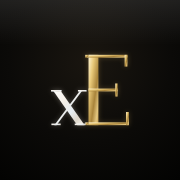
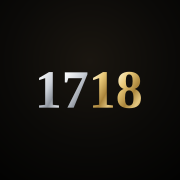
1718 (20261124-6): icono nuevo con 1718
Dueño, 24 nov 22:02: el icono, «1718». «17» en plata y «18» en oro sobre el mismo fondo oscuro del icono xE, en vectores
(cifras de Liberation Serif Bold convertidas en trazos, SIL OFL) para que no dependa de ninguna tipografía instalada.
Todos los tamaños (32, 180, 192 y 512, también los de la pantalla de inicio de Android) y ?v=3 para que los navegadores
y los móviles cojan el nuevo; también en las páginas legales.

Claude-Session: https://claude.ai/code/session_01PXRz1wGyS4XZkT2X4UdYTq

diff --git a/index.html b/index.html
@@ -24,12 +24,12 @@
 <link rel="canonical" href="https://house1718.com/">
 <meta http-equiv="Content-Security-Policy" content="default-src 'none'; script-src 'self'; style-src 'self'; img-src 'self' data: blob:; font-src 'self'; manifest-src 'self'; connect-src 'self' blob: wss://motor.guardianagroup.com wss://motor-am.guardianagroup.com wss://ru.guardianagroup.com https://motor.guardianagroup.com https://motor-am.guardianagroup.com https://ru.guardianagroup.com ws://127.0.0.1:8794 http://127.0.0.1:8794; media-src 'self' blob:; worker-src 'self'; base-uri 'none'; form-action 'none'; object-src 'none'">
 <link rel="icon" href="img/icono.svg?v=2" type="image/svg+xml">
-<link rel="icon" href="img/app/icono-32.png?v=2" sizes="32x32" type="image/png">
-<link rel="apple-touch-icon" href="img/app/icono-180.png?v=2">
+<link rel="icon" href="img/app/icono-32.png?v=3" sizes="32x32" type="image/png">
+<link rel="apple-touch-icon" href="img/app/icono-180.png?v=3">
 <link rel="manifest" href="manifest.webmanifest">
 <link rel="preload" href="fuentes/Inter-400.woff" as="font" type="font/woff" crossorigin>
-<link rel="stylesheet" href="css/elixir.css?v=20261124-5" integrity="sha384-s/RHpI2R1wo1YOEbgq97aadFXaD4bZf//V8qCCXn8WdK2oIwSK+IW5tu1IhnymTc">
-<script src="js/idioma-inicio.js?v=20261124-5" integrity="sha384-MmkfKIBZvm1JcWI8nQr+H35xHebZTFtRt3NnwqRjS9BszpgOids132FMhnMj1WTW"></script>
+<link rel="stylesheet" href="css/elixir.css?v=20261124-6" integrity="sha384-s/RHpI2R1wo1YOEbgq97aadFXaD4bZf//V8qCCXn8WdK2oIwSK+IW5tu1IhnymTc">
+<script src="js/idioma-inicio.js?v=20261124-6" integrity="sha384-MmkfKIBZvm1JcWI8nQr+H35xHebZTFtRt3NnwqRjS9BszpgOids132FMhnMj1WTW"></script>
 </head>
 <body>
 <canvas id="lienzo3d" class="lienzo3d" aria-hidden="true"></canvas>
@@ -335,20 +335,20 @@
 </div>
 </div>
 
-<script src="js/luz.js?v=20261124-5" integrity="sha384-HT0kXQCWol237JpMLEIJRRdC/tLgwstZjp5RucjoUSLuyge82BcIzJwOvb14SjaS" defer></script>
-<script src="js/idioma.js?v=20261124-5" integrity="sha384-9eaVbFl0SHa/IF62lXuP+ixQvShmSJl68pO/dRJrVlIOEju0fAVx5XE6UVSTqeHG"></script>
-<script src="js/pq-cnsa.js?v=20261124-5" integrity="sha384-0EQgDFltnWj4a6p0SwC15ZjlPDSdgANgg9gIIr4jipegvGSQgJDczXiamHOIFadB"></script>
-<script src="js/palabras.js?v=20261124-5" integrity="sha384-y1qUn0IICuhA2njevuW+3yYN79okYFYmnfrxee4PtRHHJPA2MjPH26QJIOC9N1oa"></script>
-<script src="js/cripto.js?v=20261124-5" integrity="sha384-aXBEv8TDOFRwOMpwUEdSgLnhrsID6YsgibrWRWK1Zkq3kEAInp2g5xxHAnsLZAbP"></script>
-<script src="js/rele.js?v=20261124-5" integrity="sha384-l8yZ0bUAXBIIJPrChxhv+NiiCAXhhj034h5N4PHHCl0Q1QEEjKEwgqT70vuC63wo"></script>
-<script src="js/qr.js?v=20261124-5" integrity="sha384-A2A2rMBrjosttAapw9d7JyQV/HS7/XjbM4FTDr6UJjcOvRcsIro1hMduojij6ZR9"></script>
-<script src="js/motor.js?v=20261124-5" integrity="sha384-PQlKC0qPTuXrPAJxdrNlsWWyfQU4C+nn436GSsCqKH7eSzxEeAkcHDMLATcN1NqQ"></script>
-<script type="module" src="js/sala3d.js?v=20261124-5" integrity="sha384-FFRIsDc5mdT+s83fPJmXi2xkkassPwXlApKpTMIH6jjozETGdEDlWeDrTS0ZHeWF"></script>
-<script src="js/holo.js?v=20261124-5" integrity="sha384-XHxgaA5dygVoX9z10QvIGr7enP20X8VyDl4i9CsCGp6idbBzsEQijHjRG2TLg3dj"></script>
-<script src="js/puerta.js?v=20261124-5" integrity="sha384-Y//8E1lDGQ2zpGWkGN0gk0A/QR3mPB1FLzH/xWngI5O6L660W+75kxAuU9nX3Aio"></script>
-<script src="js/escenas.js?v=20261124-5" integrity="sha384-bb7WbHlx5FzyusbpWOJJhzs6DtZQokDJ47fy15w5xbkEh2sLE+qnq39X1mUhFeGd"></script>
-<script src="js/sala.js?v=20261124-5" integrity="sha384-GPTitOaXYd9AcAck9Jag13j835TAM5NSKV6iTQxgis96ZnxW9+gA2nFLxWd/H5TS"></script>
-<script src="js/grupo.js?v=20261124-5" integrity="sha384-uTSJUwxUMPcea64a7FfioUiNQnfDA9EVRV82IKP5znTYGI5p2/yXiQ88cClGb1k7"></script>
+<script src="js/luz.js?v=20261124-6" integrity="sha384-HT0kXQCWol237JpMLEIJRRdC/tLgwstZjp5RucjoUSLuyge82BcIzJwOvb14SjaS" defer></script>
+<script src="js/idioma.js?v=20261124-6" integrity="sha384-9eaVbFl0SHa/IF62lXuP+ixQvShmSJl68pO/dRJrVlIOEju0fAVx5XE6UVSTqeHG"></script>
+<script src="js/pq-cnsa.js?v=20261124-6" integrity="sha384-0EQgDFltnWj4a6p0SwC15ZjlPDSdgANgg9gIIr4jipegvGSQgJDczXiamHOIFadB"></script>
+<script src="js/palabras.js?v=20261124-6" integrity="sha384-y1qUn0IICuhA2njevuW+3yYN79okYFYmnfrxee4PtRHHJPA2MjPH26QJIOC9N1oa"></script>
+<script src="js/cripto.js?v=20261124-6" integrity="sha384-aXBEv8TDOFRwOMpwUEdSgLnhrsID6YsgibrWRWK1Zkq3kEAInp2g5xxHAnsLZAbP"></script>
+<script src="js/rele.js?v=20261124-6" integrity="sha384-l8yZ0bUAXBIIJPrChxhv+NiiCAXhhj034h5N4PHHCl0Q1QEEjKEwgqT70vuC63wo"></script>
+<script src="js/qr.js?v=20261124-6" integrity="sha384-A2A2rMBrjosttAapw9d7JyQV/HS7/XjbM4FTDr6UJjcOvRcsIro1hMduojij6ZR9"></script>
+<script src="js/motor.js?v=20261124-6" integrity="sha384-PQlKC0qPTuXrPAJxdrNlsWWyfQU4C+nn436GSsCqKH7eSzxEeAkcHDMLATcN1NqQ"></script>
+<script type="module" src="js/sala3d.js?v=20261124-6" integrity="sha384-FFRIsDc5mdT+s83fPJmXi2xkkassPwXlApKpTMIH6jjozETGdEDlWeDrTS0ZHeWF"></script>
+<script src="js/holo.js?v=20261124-6" integrity="sha384-XHxgaA5dygVoX9z10QvIGr7enP20X8VyDl4i9CsCGp6idbBzsEQijHjRG2TLg3dj"></script>
+<script src="js/puerta.js?v=20261124-6" integrity="sha384-Y//8E1lDGQ2zpGWkGN0gk0A/QR3mPB1FLzH/xWngI5O6L660W+75kxAuU9nX3Aio"></script>
+<script src="js/escenas.js?v=20261124-6" integrity="sha384-bb7WbHlx5FzyusbpWOJJhzs6DtZQokDJ47fy15w5xbkEh2sLE+qnq39X1mUhFeGd"></script>
+<script src="js/sala.js?v=20261124-6" integrity="sha384-GPTitOaXYd9AcAck9Jag13j835TAM5NSKV6iTQxgis96ZnxW9+gA2nFLxWd/H5TS"></script>
+<script src="js/grupo.js?v=20261124-6" integrity="sha384-uTSJUwxUMPcea64a7FfioUiNQnfDA9EVRV82IKP5znTYGI5p2/yXiQ88cClGb1k7"></script>
 <div class="girar" id="girar" aria-hidden="true"><span class="girar-icono"><svg class="girar-flecha" viewBox="0 0 64 64"><path d="M14 22a21 21 0 0 1 30-9"/><path d="M45 6.5l-.6 7.4-7.3-1"/><path d="M50 42a21 21 0 0 1-30 9"/><path d="M19 57.5l.6-7.4 7.3 1"/></svg><svg class="girar-movil" viewBox="0 0 64 64"><rect x="22" y="12" width="20" height="40" rx="4.5"/><path d="M29.5 16.5h5M30 47.5h4"/></svg></span><b data-t="girarTitulo">Gira el móvil</b><span data-t="girarTexto">1718 se usa en vertical.</span></div>
 </body>
 </html>

diff --git a/privacidad.html b/privacidad.html
@@ -9,7 +9,7 @@
 <meta name="referrer" content="no-referrer">
 <meta http-equiv="Content-Security-Policy" content="default-src 'none'; style-src 'self'; img-src 'self'; font-src 'self'; manifest-src 'self'; base-uri 'none'; form-action 'none'">
 <link rel="icon" href="img/icono.svg" type="image/svg+xml">
-<link rel="apple-touch-icon" href="img/app/icono-180.png">
+<link rel="apple-touch-icon" href="img/app/icono-180.png?v=3">
 <link rel="manifest" href="manifest.webmanifest">
 <link rel="stylesheet" href="css/legal.css?v=1" integrity="sha384-f5KLGShJ9w0m8iWEneLHhEZ6nMPjcqAvOZSh68n5Mg3Cl8SKqtOnSFL5rwkZI4wn">
 </head>

diff --git a/privacy.html b/privacy.html
@@ -9,7 +9,7 @@
 <meta name="referrer" content="no-referrer">
 <meta http-equiv="Content-Security-Policy" content="default-src 'none'; style-src 'self'; img-src 'self'; font-src 'self'; manifest-src 'self'; base-uri 'none'; form-action 'none'">
 <link rel="icon" href="img/icono.svg" type="image/svg+xml">
-<link rel="apple-touch-icon" href="img/app/icono-180.png">
+<link rel="apple-touch-icon" href="img/app/icono-180.png?v=3">
 <link rel="manifest" href="manifest.webmanifest">
 <link rel="stylesheet" href="css/legal.css?v=1" integrity="sha384-f5KLGShJ9w0m8iWEneLHhEZ6nMPjcqAvOZSh68n5Mg3Cl8SKqtOnSFL5rwkZI4wn">
 </head>

diff --git a/reembolsos.html b/reembolsos.html
@@ -9,7 +9,7 @@
 <meta name="referrer" content="no-referrer">
 <meta http-equiv="Content-Security-Policy" content="default-src 'none'; style-src 'self'; img-src 'self'; font-src 'self'; manifest-src 'self'; base-uri 'none'; form-action 'none'">
 <link rel="icon" href="img/icono.svg" type="image/svg+xml">
-<link rel="apple-touch-icon" href="img/app/icono-180.png">
+<link rel="apple-touch-icon" href="img/app/icono-180.png?v=3">
 <link rel="manifest" href="manifest.webmanifest">
 <link rel="stylesheet" href="css/legal.css?v=1" integrity="sha384-f5KLGShJ9w0m8iWEneLHhEZ6nMPjcqAvOZSh68n5Mg3Cl8SKqtOnSFL5rwkZI4wn">
 </head>

diff --git a/refunds.html b/refunds.html
@@ -9,7 +9,7 @@
 <meta name="referrer" content="no-referrer">
 <meta http-equiv="Content-Security-Policy" content="default-src 'none'; style-src 'self'; img-src 'self'; font-src 'self'; manifest-src 'self'; base-uri 'none'; form-action 'none'">
 <link rel="icon" href="img/icono.svg" type="image/svg+xml">
-<link rel="apple-touch-icon" href="img/app/icono-180.png">
+<link rel="apple-touch-icon" href="img/app/icono-180.png?v=3">
 <link rel="manifest" href="manifest.webmanifest">
 <link rel="stylesheet" href="css/legal.css?v=1" integrity="sha384-f5KLGShJ9w0m8iWEneLHhEZ6nMPjcqAvOZSh68n5Mg3Cl8SKqtOnSFL5rwkZI4wn">
 </head>

diff --git a/terminos.html b/terminos.html
@@ -9,7 +9,7 @@
 <meta name="referrer" content="no-referrer">
 <meta http-equiv="Content-Security-Policy" content="default-src 'none'; style-src 'self'; img-src 'self'; font-src 'self'; manifest-src 'self'; base-uri 'none'; form-action 'none'">
 <link rel="icon" href="img/icono.svg" type="image/svg+xml">
-<link rel="apple-touch-icon" href="img/app/icono-180.png">
+<link rel="apple-touch-icon" href="img/app/icono-180.png?v=3">
 <link rel="manifest" href="manifest.webmanifest">
 <link rel="stylesheet" href="css/legal.css?v=1" integrity="sha384-f5KLGShJ9w0m8iWEneLHhEZ6nMPjcqAvOZSh68n5Mg3Cl8SKqtOnSFL5rwkZI4wn">
 </head>

diff --git a/terms.html b/terms.html
@@ -9,7 +9,7 @@
 <meta name="referrer" content="no-referrer">
 <meta http-equiv="Content-Security-Policy" content="default-src 'none'; style-src 'self'; img-src 'self'; font-src 'self'; manifest-src 'self'; base-uri 'none'; form-action 'none'">
 <link rel="icon" href="img/icono.svg" type="image/svg+xml">
-<link rel="apple-touch-icon" href="img/app/icono-180.png">
+<link rel="apple-touch-icon" href="img/app/icono-180.png?v=3">
 <link rel="manifest" href="manifest.webmanifest">
 <link rel="stylesheet" href="css/legal.css?v=1" integrity="sha384-f5KLGShJ9w0m8iWEneLHhEZ6nMPjcqAvOZSh68n5Mg3Cl8SKqtOnSFL5rwkZI4wn">
 </head>
